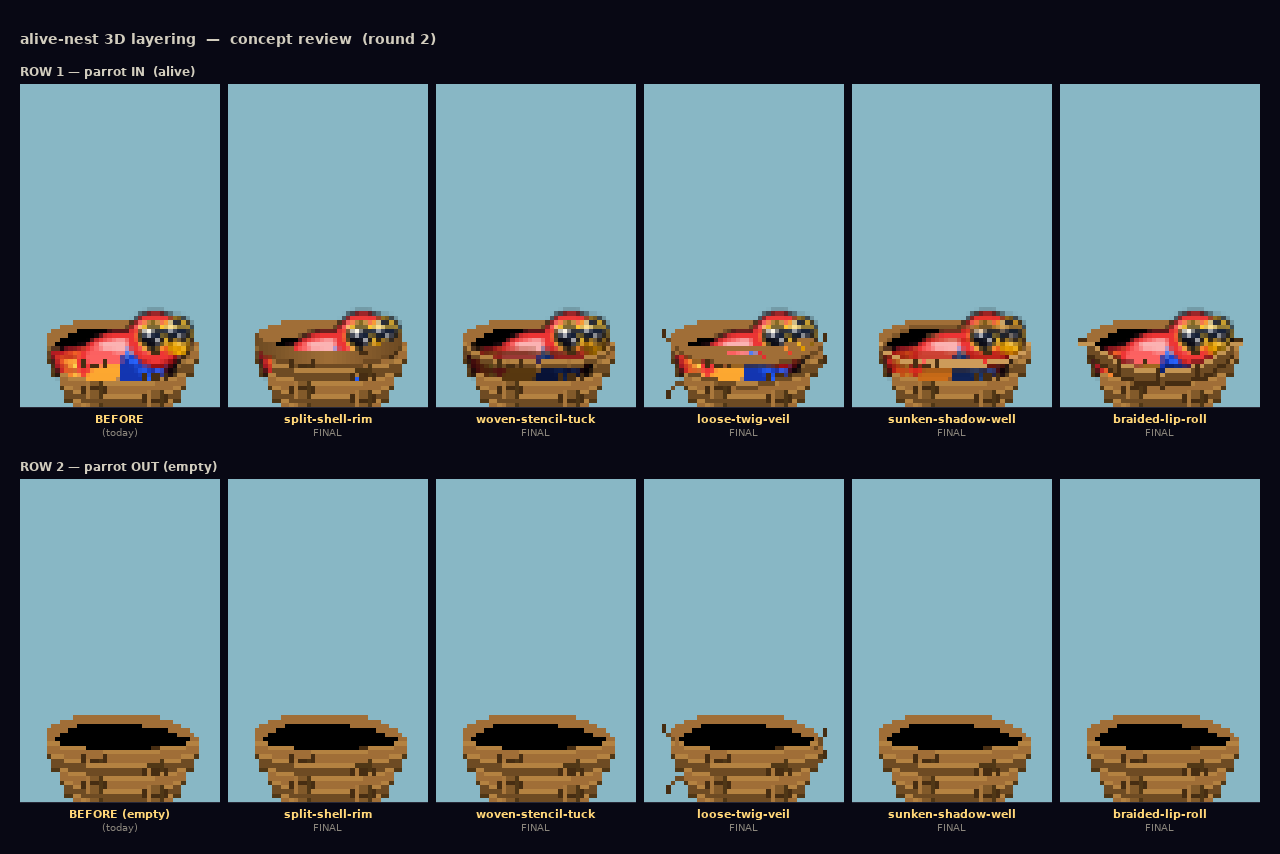
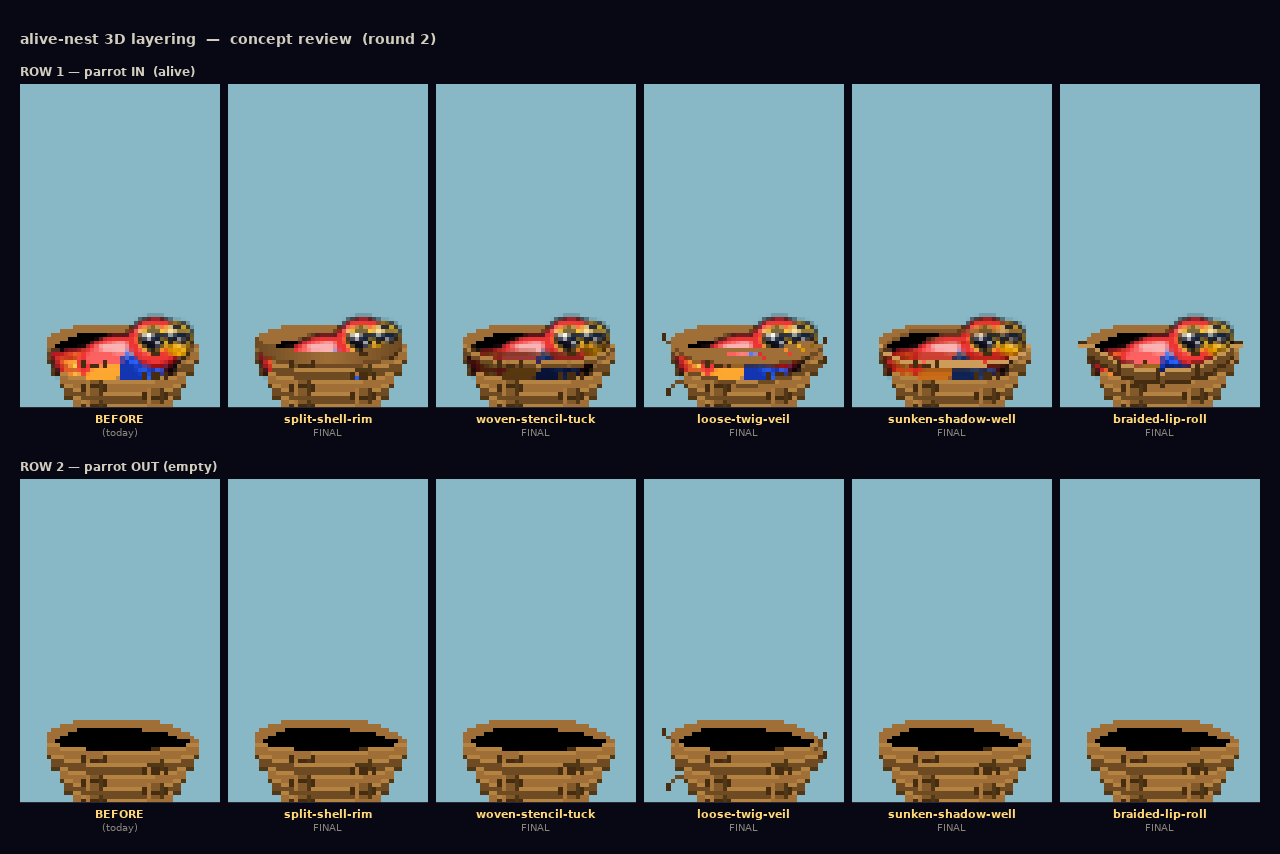
docs(nest-alive-3d): showcase — fix crop bottom + per-concept empty row
- Extended CROP from Rect(8,15,46,74) to Rect(8,8,46,82) so the nest
  bottom weave and notches are fully visible (was clipped 6 px too high).
- Empty row now calls each concept's draw_slot_after(alive=False) instead
  of draw_slot_before, so each concept shows its own empty-crib design.

Claude-Session: https://claude.ai/code/session_01SYxW5bMXxMEcZRx1arfvCN

diff --git a/docs/nest-alive-3d/build_showcase.py b/docs/nest-alive-3d/build_showcase.py
@@ -25,11 +25,13 @@ PANEL_H   = 355
 FOOTER_H  = 32
 CONTENT_H = PANEL_H - FOOTER_H          # 323
 
-# Native draw surface and the crop that maps to 200×323
+# Native draw surface and the crop that maps to 200×CONTENT_H
+# y=8: well above the bird's head  y=90: below the lowest notch (cy+18=91)
+# 46 wide × 82 tall → scale ≈ 4.35× uniform (200/46 ≈ 355/82)
 NATIVE_W  = 70
 NATIVE_H  = 100
 NEST_CY   = 73
-CROP      = pygame.Rect(8, 15, 46, 74)  # approx. bird-head → weave bottom
+CROP      = pygame.Rect(8, 8, 46, 82)   # head of sky above → notch below
 
 GAP       = 8
 MARGIN    = 20
@@ -110,14 +112,15 @@ def _build_row(alive, row_label):
     row.blit(lbl, (0, (ROW_LABEL_H - lbl.get_height()) // 2))
 
     x = 0
-    # BEFORE panel (today)
-    slug_lbl = 'BEFORE' if alive else 'BEFORE (empty)'
+    # BEFORE panel — always uses today's draw_slot_before for both states
     row.blit(
         _make_panel(_ref_mod.draw_slot_before, 'BEFORE',
-                    slug_lbl, '(today)', alive=alive),
+                    'BEFORE', '(today)', alive=alive),
         (x, ROW_LABEL_H))
     x += PANEL_W + GAP
 
+    # Each concept uses its own draw_slot_after for BOTH alive and empty,
+    # so the empty row shows that concept's own empty-state design.
     for label, mod in concept_mods:
         row.blit(
             _make_panel(mod.draw_slot_after, label, label, 'FINAL', alive=alive),
